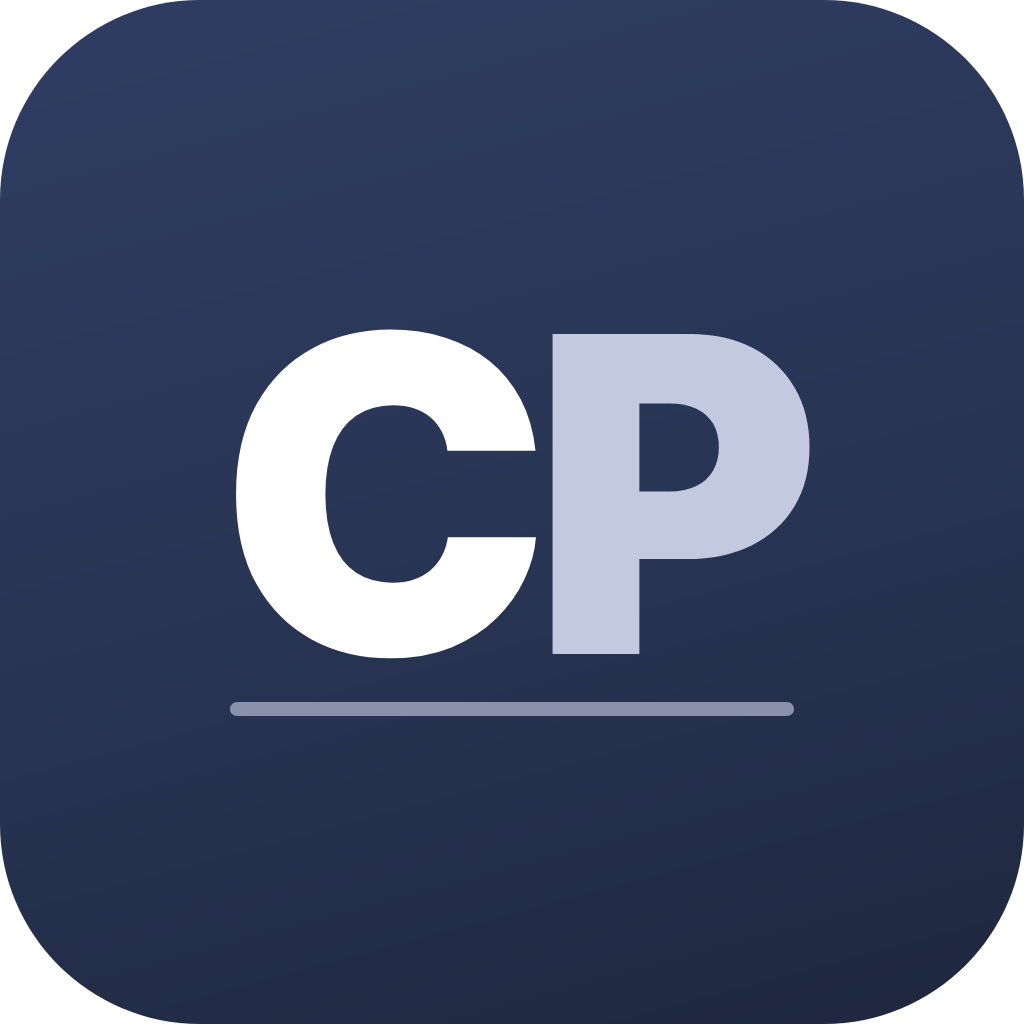
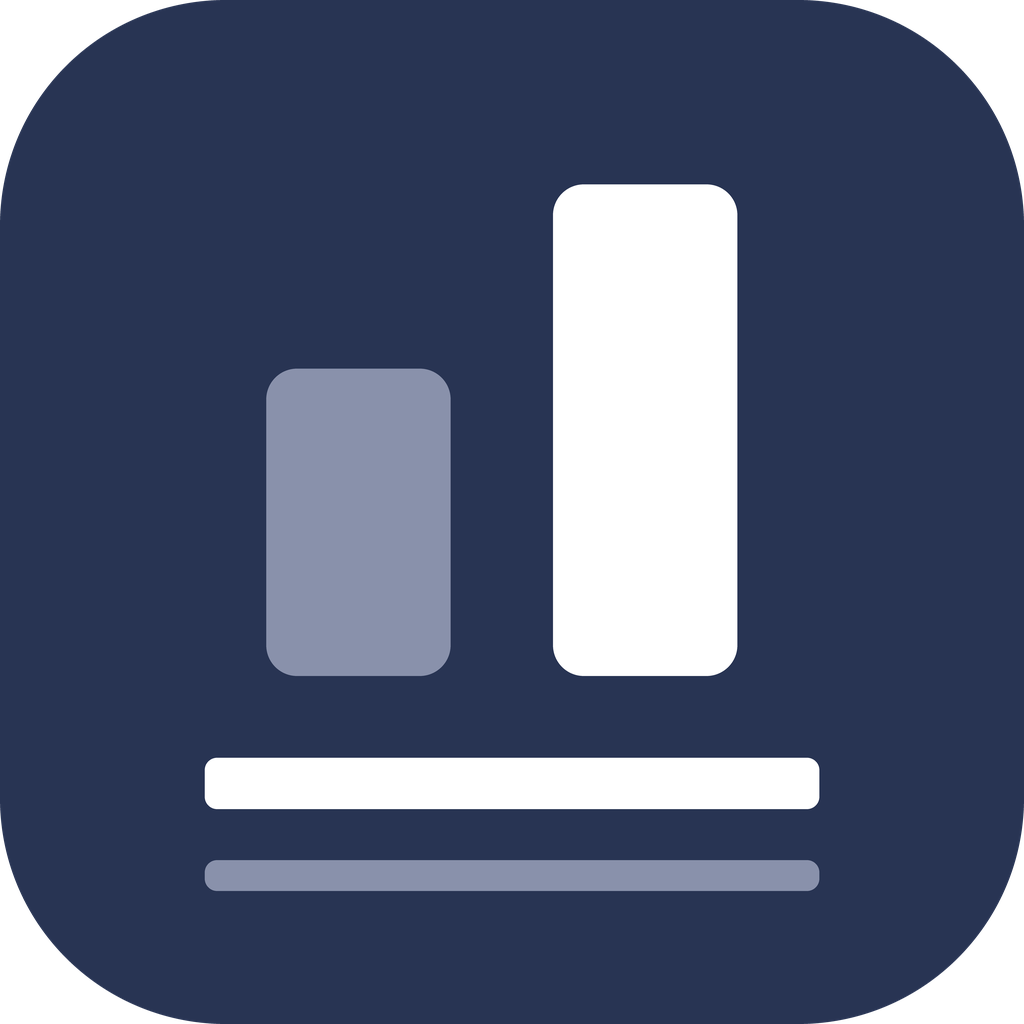
Icone novo e repaginacao da coluna de entrada
Icone (escolha da usuaria, opcao C): posicao por ano sobre a dupla linha de
fechamento contabil, em navy #283453, barra do ano anterior em #8991ab e a do
ano corrente em branco. Sai o "CP" com gradiente, que era um dos sinais de
interface gerada. Gerado por script deterministico, com desenho simplificado
abaixo de 32px para nao empastar: assets/cp-tec.ico com 7 tamanhos (16 a 256),
assets/cp-tec.png e public/cp-tec.png em 1024 e public/favicon.svg, que ate
entao trazia um icone roxo de template, sem relacao com o app.

Coluna da esquerda, de tres caixas empilhadas para uma lista:
- Perfis viram linhas separadas por filete. O nome e o botao de entrar; a
  linha inteira deixa de ser clicavel, porque um bloco clicavel com botoes
  dentro atrapalha teclado e leitor de tela.
- As acoes do perfil (apelido, senha, backup, excluir) ficam juntas, em 11px,
  abaixo do CPF.
- "Novo Perfil" em caixa tracejada e o bloco "Ja usou o CP-TEC?" viram uma
  acao secundaria e um link de texto, lado a lado.
- A marca passa a usar o icone do app no lugar do quadrado com as iniciais.

Bloco navy: rotulo passa de "TEC Tributos" para "CP-TEC" e sai a linha "uso
interno da consultoria", as duas a pedido da usuaria.

Verificacao: npm test com 1014 testes passando e 0 falhas; npm run build sem
erro; telas conferidas nos dois temas em 1440px.

diff --git a/src/pages/PerfilLauncherPage.jsx b/src/pages/PerfilLauncherPage.jsx
@@ -455,8 +455,8 @@ export default function PerfilLauncherPage({ theme, onToggleTheme, onSelecionarP
       <div className="entrada-conteudo">
         <div className="launcher-shell">
           <div className="entrada-marca">
-            <div className="entrada-marca-simbolo">CP</div>
-            <div className="entrada-marca-nome">CP-TEC<span>Controle Patrimonial</span></div>
+            <img src="./cp-tec.png" alt="" width="34" height="34" />
+            <div className="entrada-marca-nome">Controle Patrimonial<span>TEC Tributos</span></div>
           </div>
           <div className="launcher-heading">
             <h1 className="entrada-titulo">Selecione um perfil</h1>
@@ -464,21 +464,24 @@ export default function PerfilLauncherPage({ theme, onToggleTheme, onSelecionarP
           </div>
 
           {perfis.length > 0 && (
-            <div style={{ display: 'grid', gap: '12px', marginBottom: formOpen ? '24px' : '0' }}>
+            <div className="entrada-perfis" style={{ marginBottom: formOpen ? '24px' : '20px' }}>
               {perfis.map(p => (
-                <div key={p.id} className="perfil-card" onClick={() => onSelecionarPerfil(p)}>
+                <div key={p.id} className="entrada-perfil">
                   <div className="perfil-avatar">{iniciaisNome(p.nome)}</div>
-                  <div style={{ flex: 1, minWidth: 0 }}>
-                    <div style={{ display: 'flex', alignItems: 'center', gap: '8px', flexWrap: 'wrap' }}>
-                      <span style={{ fontSize: '15px', fontWeight: 700 }}>{p.nome || 'Sem nome'}</span>
+                  <div className="entrada-perfil-corpo">
+                    {/* O nome é o botão de entrar. A linha inteira não é mais
+                        clicável: dentro dela existem outros botões, e um bloco
+                        clicável com botões dentro confunde teclado e leitor. */}
+                    <button type="button" className="entrada-perfil-nome" onClick={() => onSelecionarPerfil(p)}>
+                      <span>{p.nome || 'Sem nome'}</span>
                       {p.apelido && <span className="perfil-apelido-badge">{p.apelido}</span>}
                       {p.protegido && <span title="Protegido por senha" style={{ color: 'var(--text-muted)', display: 'inline-flex' }}><LockIcon /></span>}
-                    </div>
+                    </button>
                     {/* Perfil protegido não guarda o CPF completo fora do
                         envelope cifrado (ver protegerPerfil em perfis.js,
                         achado 21): o card mostra só os três últimos dígitos,
                         que bastam para desempatar homônimos. */}
-                    <div style={{ fontSize: '12px', color: 'var(--text-secondary)', marginTop: '3px' }}>
+                    <div className="entrada-perfil-doc">
                       {p.cpf
                         ? formatCpfCnpj(p.cpf)
                         : p.cpfFinal
@@ -500,9 +503,9 @@ export default function PerfilLauncherPage({ theme, onToggleTheme, onSelecionarP
                         {senhaErro && <p style={{ color: 'var(--accent-danger)', fontSize: '11px', marginTop: '4px' }}>{senhaErro}</p>}
                       </div>
                     ) : (
-                      <div style={{ display: 'flex', gap: '14px', marginTop: '8px', flexWrap: 'wrap' }}>
+                      <div className="entrada-perfil-acoes">
                         <button className="perfil-link-btn" onClick={e => iniciarEdicaoApelido(e, p)}>
-                          {p.apelido ? 'Editar apelido' : '+ Apelido'}
+                          {p.apelido ? 'Editar apelido' : 'Apelido'}
                         </button>
                         {!p.protegido && (
                           <button className="perfil-link-btn" onClick={e => iniciarProtecao(e, p)}>Proteger com senha</button>
@@ -515,17 +518,12 @@ export default function PerfilLauncherPage({ theme, onToggleTheme, onSelecionarP
                         >
                           {exportandoId === p.id ? 'Gerando backup...' : 'Exportar backup'}
                         </button>
+                        <button className="perfil-link-btn perfil-link-btn-perigo" onClick={e => handleExcluirPerfil(e, p)}>Excluir</button>
                       </div>
                     )}
                   </div>
-                  <button className="perfil-link-btn perfil-link-btn-perigo" onClick={e => handleExcluirPerfil(e, p)}>Excluir</button>
                 </div>
               ))}
-              {!formOpen && (
-                <button className="perfil-add-card" onClick={() => { setForm(FORM_VAZIO); limparDeclaracaoImportada(); setFormOpen(true); }}>
-                  ＋ Novo Perfil
-                </button>
-              )}
             </div>
           )}
 
@@ -548,15 +546,18 @@ export default function PerfilLauncherPage({ theme, onToggleTheme, onSelecionarP
               {avisoBackup.texto}
             </p>
           )}
+          {/* Uma ação de peso (cadastrar) e uma de texto (restaurar), lado a
+              lado. Antes eram dois blocos do tamanho da lista de perfis. */}
           {!restauracao && (
-            <div className="launcher-restore-wrap">
-              <button className="launcher-restore-action" type="button" onClick={handleAbrirSeletorBackup}>
-                <span className="launcher-action-icon"><RestoreIcon /></span>
-                <span className="launcher-action-copy">
-                  <strong>Já usou o CP-TEC?</strong>
-                  <small>Restaure aqui um perfil salvo anteriormente</small>
-                </span>
-                <span className="launcher-action-arrow" aria-hidden="true">›</span>
+            <div className="entrada-acoes">
+              {!formOpen && (
+                <button type="button" className="btn btn-secondary" onClick={() => { setForm(FORM_VAZIO); limparDeclaracaoImportada(); setFormOpen(true); }}>
+                  Cadastrar novo titular
+                </button>
+              )}
+              <button className="entrada-link" type="button" onClick={handleAbrirSeletorBackup}>
+                <RestoreIcon />
+                Restaurar um perfil salvo
               </button>
             </div>
           )}
@@ -715,14 +716,13 @@ export default function PerfilLauncherPage({ theme, onToggleTheme, onSelecionarP
       </div>
       </main>
       <aside className="entrada-vitrine">
-        <p className="entrada-vitrine-eyebrow">TEC Tributos</p>
+        <p className="entrada-vitrine-eyebrow">CP-TEC</p>
         <h2>O patrimônio do seu cliente, ano após ano.</h2>
         <div className="entrada-vitrine-regua" aria-hidden="true"><span /><span /></div>
         <p>
           Importe a declaração entregue, registre compra, venda e baixa ao longo do ano
           e feche 31/12 com a posição pronta para a próxima declaração.
         </p>
-        <p className="entrada-vitrine-rodape">Uso interno da consultoria</p>
       </aside>
       </div>
       {previsualizacao && (

diff --git a/src/index.css b/src/index.css
@@ -894,9 +894,27 @@ button,input,select,textarea{font-family:var(--font-family);}
 .entrada-coluna{display:flex;flex-direction:column;justify-content:center;padding:48px 56px;overflow-y:auto;background:var(--bg-primary);}
 .entrada-conteudo{width:100%;max-width:480px;margin:0 auto;}
 .entrada-marca{display:flex;align-items:center;gap:12px;margin-bottom:36px;}
-.entrada-marca-simbolo{width:38px;height:38px;flex-shrink:0;border-radius:var(--radius-sm);background:var(--accent-primary);color:var(--bg-primary);display:flex;align-items:center;justify-content:center;font-size:15px;font-weight:700;letter-spacing:0.5px;}
+.entrada-marca img{width:34px;height:34px;flex-shrink:0;display:block;}
 .entrada-marca-nome{font-size:14px;font-weight:700;line-height:1.2;}
 .entrada-marca-nome span{display:block;font-size:11px;font-weight:600;letter-spacing:0.8px;text-transform:uppercase;color:var(--text-muted);margin-top:2px;}
+
+/* Perfis como lista, não como cartões: um filete separa cada titular, o nome
+   é o botão de entrar e o resto fica em texto miúdo, sem competir. */
+.entrada-perfis{margin:0 0 20px;border-top:1px solid var(--border-color);}
+.entrada-perfil{display:flex;align-items:flex-start;gap:14px;padding:16px 0;border-bottom:1px solid var(--border-color);}
+.entrada-perfil .perfil-avatar{width:38px;height:38px;font-size:13px;flex-shrink:0;box-shadow:none;}
+.entrada-perfil-corpo{flex:1;min-width:0;}
+.entrada-perfil-nome{display:inline-flex;align-items:center;gap:8px;padding:0;border:none;background:none;color:var(--text-primary);font-family:var(--font-family);font-size:15px;font-weight:700;line-height:1.3;text-align:left;cursor:pointer;transition:color var(--transition-fast);}
+.entrada-perfil-nome:hover{color:var(--accent-primary);}
+.entrada-perfil-doc{font-size:12px;color:var(--text-secondary);margin-top:2px;font-variant-numeric:tabular-nums;}
+.entrada-perfil-acoes{display:flex;flex-wrap:wrap;gap:4px 16px;margin-top:10px;}
+.entrada-perfil-acoes .perfil-link-btn{font-size:11px;font-weight:600;}
+
+/* Uma ação de peso por tela, o resto em texto. */
+.entrada-acoes{display:flex;align-items:center;gap:20px;flex-wrap:wrap;}
+.entrada-link{display:inline-flex;align-items:center;gap:7px;padding:0;border:none;background:none;color:var(--text-secondary);font-family:var(--font-family);font-size:12px;font-weight:600;cursor:pointer;transition:color var(--transition-fast);}
+.entrada-link:hover{color:var(--accent-primary);}
+.entrada-link svg{width:14px;height:14px;flex-shrink:0;}
 .entrada-titulo{font-size:22px;font-weight:700;line-height:1.3;margin:0;}
 .entrada-subtitulo{font-size:13px;color:var(--text-secondary);margin:6px 0 24px;}
 .entrada-rodape{margin-top:32px;font-size:11px;color:var(--text-muted);}

diff --git a/src/pages/DesbloquearPerfilPage.jsx b/src/pages/DesbloquearPerfilPage.jsx
@@ -89,14 +89,13 @@ export default function DesbloquearPerfilPage({ perfil, theme, onToggleTheme, on
           </div>
         </main>
         <aside className="entrada-vitrine">
-          <p className="entrada-vitrine-eyebrow">TEC Tributos</p>
+          <p className="entrada-vitrine-eyebrow">CP-TEC</p>
           <h2>O patrimônio do seu cliente, ano após ano.</h2>
           <div className="entrada-vitrine-regua" aria-hidden="true"><span /><span /></div>
           <p>
             Importe a declaração entregue, registre compra, venda e baixa ao longo do ano
             e feche 31/12 com a posição pronta para a próxima declaração.
           </p>
-          <p className="entrada-vitrine-rodape">Uso interno da consultoria</p>
         </aside>
       </div>
     </div>
